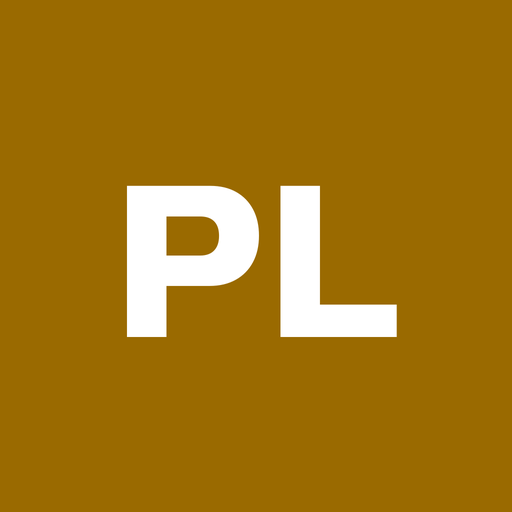
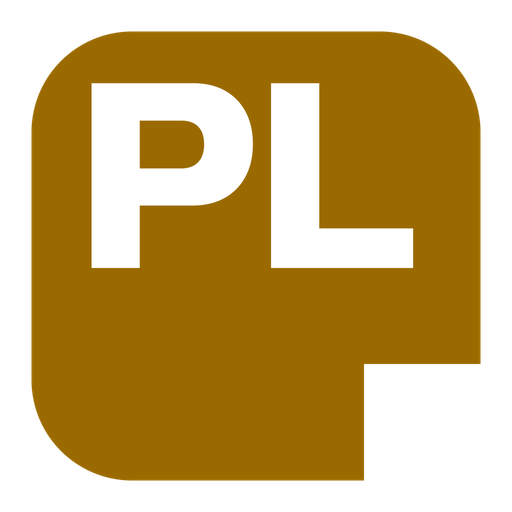
Icônes web : forme de l'icône de l'app ScanLead (coin découpé), PL en Archivo 800 ; ?v=4
Claude-Session: https://claude.ai/code/session_012j1vQaeVBFc6EYD3wFPmdB

diff --git a/index.html b/index.html
@@ -4,13 +4,13 @@
     <meta charset="UTF-8" />
     <meta name="viewport" content="width=device-width, initial-scale=1.0, viewport-fit=cover" />
     <title>ProjectLead</title>
-    <link rel="icon" type="image/x-icon" href="/favicon.ico?v=3" />
-    <link rel="icon" type="image/png" sizes="16x16" href="/favicon-16x16.png?v=3" />
-    <link rel="icon" type="image/png" sizes="32x32" href="/favicon-32x32.png?v=3" />
-    <link rel="icon" type="image/png" sizes="48x48" href="/favicon-48x48.png?v=3" />
-    <link rel="icon" type="image/png" sizes="64x64" href="/favicon.png?v=3" />
-    <link rel="apple-touch-icon" sizes="180x180" href="/apple-touch-icon.png?v=3" />
-    <link rel="manifest" href="/site.webmanifest?v=3" />
+    <link rel="icon" type="image/x-icon" href="/favicon.ico?v=4" />
+    <link rel="icon" type="image/png" sizes="16x16" href="/favicon-16x16.png?v=4" />
+    <link rel="icon" type="image/png" sizes="32x32" href="/favicon-32x32.png?v=4" />
+    <link rel="icon" type="image/png" sizes="48x48" href="/favicon-48x48.png?v=4" />
+    <link rel="icon" type="image/png" sizes="64x64" href="/favicon.png?v=4" />
+    <link rel="apple-touch-icon" sizes="180x180" href="/apple-touch-icon.png?v=4" />
+    <link rel="manifest" href="/site.webmanifest?v=4" />
     <meta name="theme-color" content="#eceae7" />
     <meta name="description" content="La gestion de projet de la famille Lead : étapes, tâches, temps, suivi client et facturation." />
     <link rel="preconnect" href="https://fonts.googleapis.com" />
